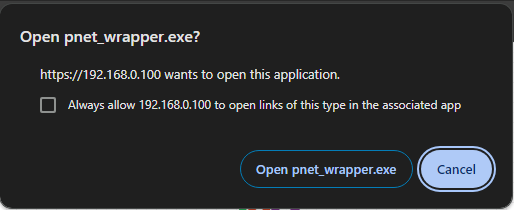
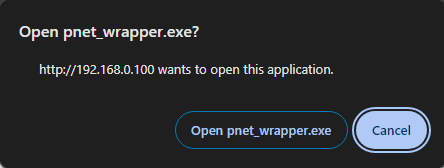
Readme update

diff --git a/Config-popup.md b/Config-popup.md
@@ -1,7 +1,7 @@
 # Saltar pop-up de confirmación de ejecución
 
 ## Pasos
-Se recomienda realizarlos las siguientes acciones en  /root/certs
+Se recomienda realizarlos las siguientes acciones en /root/certs
 ```
 mkdir -p root/certs
 cd ~/certs
@@ -15,21 +15,21 @@ cd ~/certs
    
    ```sudo openssl genpkey -algorithm RSA -out server_k.key -aes256 -pkeyopt rsa_keygen_bits:4096```
 
-4. Remover passphrase de la llave privada ya que apache2 la usara automáticamente. Si se desea saltar este paso para una llave más segura, el servicio de apache tendra que ser reiniciado cuando se inicia la VM de PNET
+4. Remover passphrase de la llave privada ya que apache2 la usara automáticamente. Si se desea saltar este paso para una llave más segura, el servicio de apache2 tendrá que ser reiniciado cuando se inicia la VM de PNET
 
     ```
-    # Opcion 1. crear llave sin passphrase
+    # Opción 1. crear llave sin passphrase
     openssl rsa -in server_k.key -out server.key
 
-    # Opcion 2. dejar el passphrase
+    # Opción 2. dejar el passphrase
     mv server_k.key server.key
 
-    # si se deja el passphrase, este comando sera necesario durante cada inicio
+    # si se deja el passphrase, este comando será necesario durante cada inicio
     # si se encuentra el error de tty, volver a ejecutar el mismo comando
     systemctl restart apache2
     ```
 
-5. Generar solicitud de certificado. IMPORTANTE: CN debe ser la ip local asignada a la VM, lo demas puede ser arbitrario
+5. Generar solicitud de certificado. IMPORTANTE: CN debe ser la ip local asignada a la VM, lo demás puede ser arbitrario
   
    ```
    openssl req -new -key server.key -out server.csr
@@ -40,7 +40,7 @@ cd ~/certs
     Locality: Guatemala<br>
     Organization Name: USAC<br>
     Organizational Unit: REDES<br>
-    Common Name:  [IP ASIGNADA A LA VM DE PNET]<br>
+    Common Name: [IP ASIGNADA A LA VM DE PNET]<br>
     Email: [cualquier correo]<br>
     <br>
     Challenge password: <vacía><br>
@@ -68,25 +68,25 @@ cd ~/certs
        SSLCertificateFile      /etc/ssl/certs/ssl-cert-selfsigned.crt
        SSLCertificateKeyFile /etc/ssl/private/ssl-cert-selfsigned.key
       ```
-9. Podemos ahora ingresar ahora desde el navegador a https://<ip-vm>. El navegador nos advertirá de la falta de autentificacion del certificado.
+9. Podemos ahora ingresar ahora desde el navegador a https://<ip-vm>. El navegador nos advertirá de la falta de autentificación del certificado.
 
     ![extra_1](readme_img/extra_1.png)
     
-    Vemos el certificado en cuestion y seleccionamos guardarlo (**Copy to file...**). O podemos copiarlo de la vm via *scp*.
+    Vemos el certificado en cuestión y seleccionamos guardarlo (**Copy to file...**). O podemos copiarlo de la vm vía *scp*.
     
     ![extra_2](readme_img/extra_2.png)
 
 
-10. Abrimos el manejador de certificados con WIN+R: "certmgr.msc". Seleccionamos la opcion de **Trusted Root Certification**. Action -> All Tasks -> Import...
+10. Abrimos el manejador de certificados con WIN+R: "certmgr.msc". Seleccionamos la opción de **Trusted Root Certification**. Action -> All Tasks -> Import...
 
      ![extra_3](readme_img/extra_3.png)
   
-     Seguimos los pasos por defecto, seleccionando el certificado que exportamos, y asegurandonos de que se vaya a ubicar en **Trusted Root Certification**.
+     Seguimos los pasos por defecto, seleccionando el certificado que exportamos, y asegurándonos de que se vaya a ubicar en **Trusted Root Certification**.
   
      ![extra_4](readme_img/extra_4.png)
   
      ![extra_5](readme_img/extra_5.png)
   
-     Si ahora refrescamos la pagina web de PNET, podemos ver que ya funciona sin problemas. Al crear un nodo y abrir su respectivo capture/view, el prompt ahora tendrá la opción de recordar la selección. 
+     Si ahora refrescamos la página web de PNET, podemos ver que ya funciona sin problemas. Al crear un nodo y abrir su respectivo capture/view, el prompt ahora tendrá la opción de recordar la selección. 
   
      ![extra_6](readme_img/extra_6.png)

diff --git a/README.md b/README.md
@@ -39,4 +39,8 @@ echo "<public key>" >> $HOME/.ssh/authorized_keys
 
 ## Extras
 
-Para mejorar aún mas la experiencia, se puede remover el mensaje de "Estas seguro que deseas ejecutar esta aplicacion?". La guía para esto se encuentra por separado en [Config-popup.md](Config-popup.md) ya que es un poco extenso. La opción de "recordar mi selección" está disponible solo para sitios HTTPs. Por lo que configurar esta comodidad involucra crear un certificado auto firmado, instalarlo en Windows, y habilitar esta opción oculta de Google chrome (probado en Version 120.0.6099.216). Para otros navegadores esto puede variar un poco y puede no ser necesario, hacer pruebas previamente.
+Para mejorar aún mas la experiencia, se puede remover el mensaje de "Estas seguro que deseas ejecutar esta aplicacion?".
+
+![readme_protocol-prompt](readme_img/readme_protocol-prompt.png)
+
+La guía para esto se encuentra por separado en [Config-popup.md](Config-popup.md) ya que es un poco extenso. La opción de "recordar mi selección" está disponible solo para sitios HTTPs. Por lo que configurar esta comodidad involucra crear un certificado auto firmado, instalarlo en Windows, y habilitar esta opción oculta de Google chrome (probado en Version 120.0.6099.216). Para otros navegadores esto puede variar un poco y puede no ser necesario, hacer pruebas previamente.
